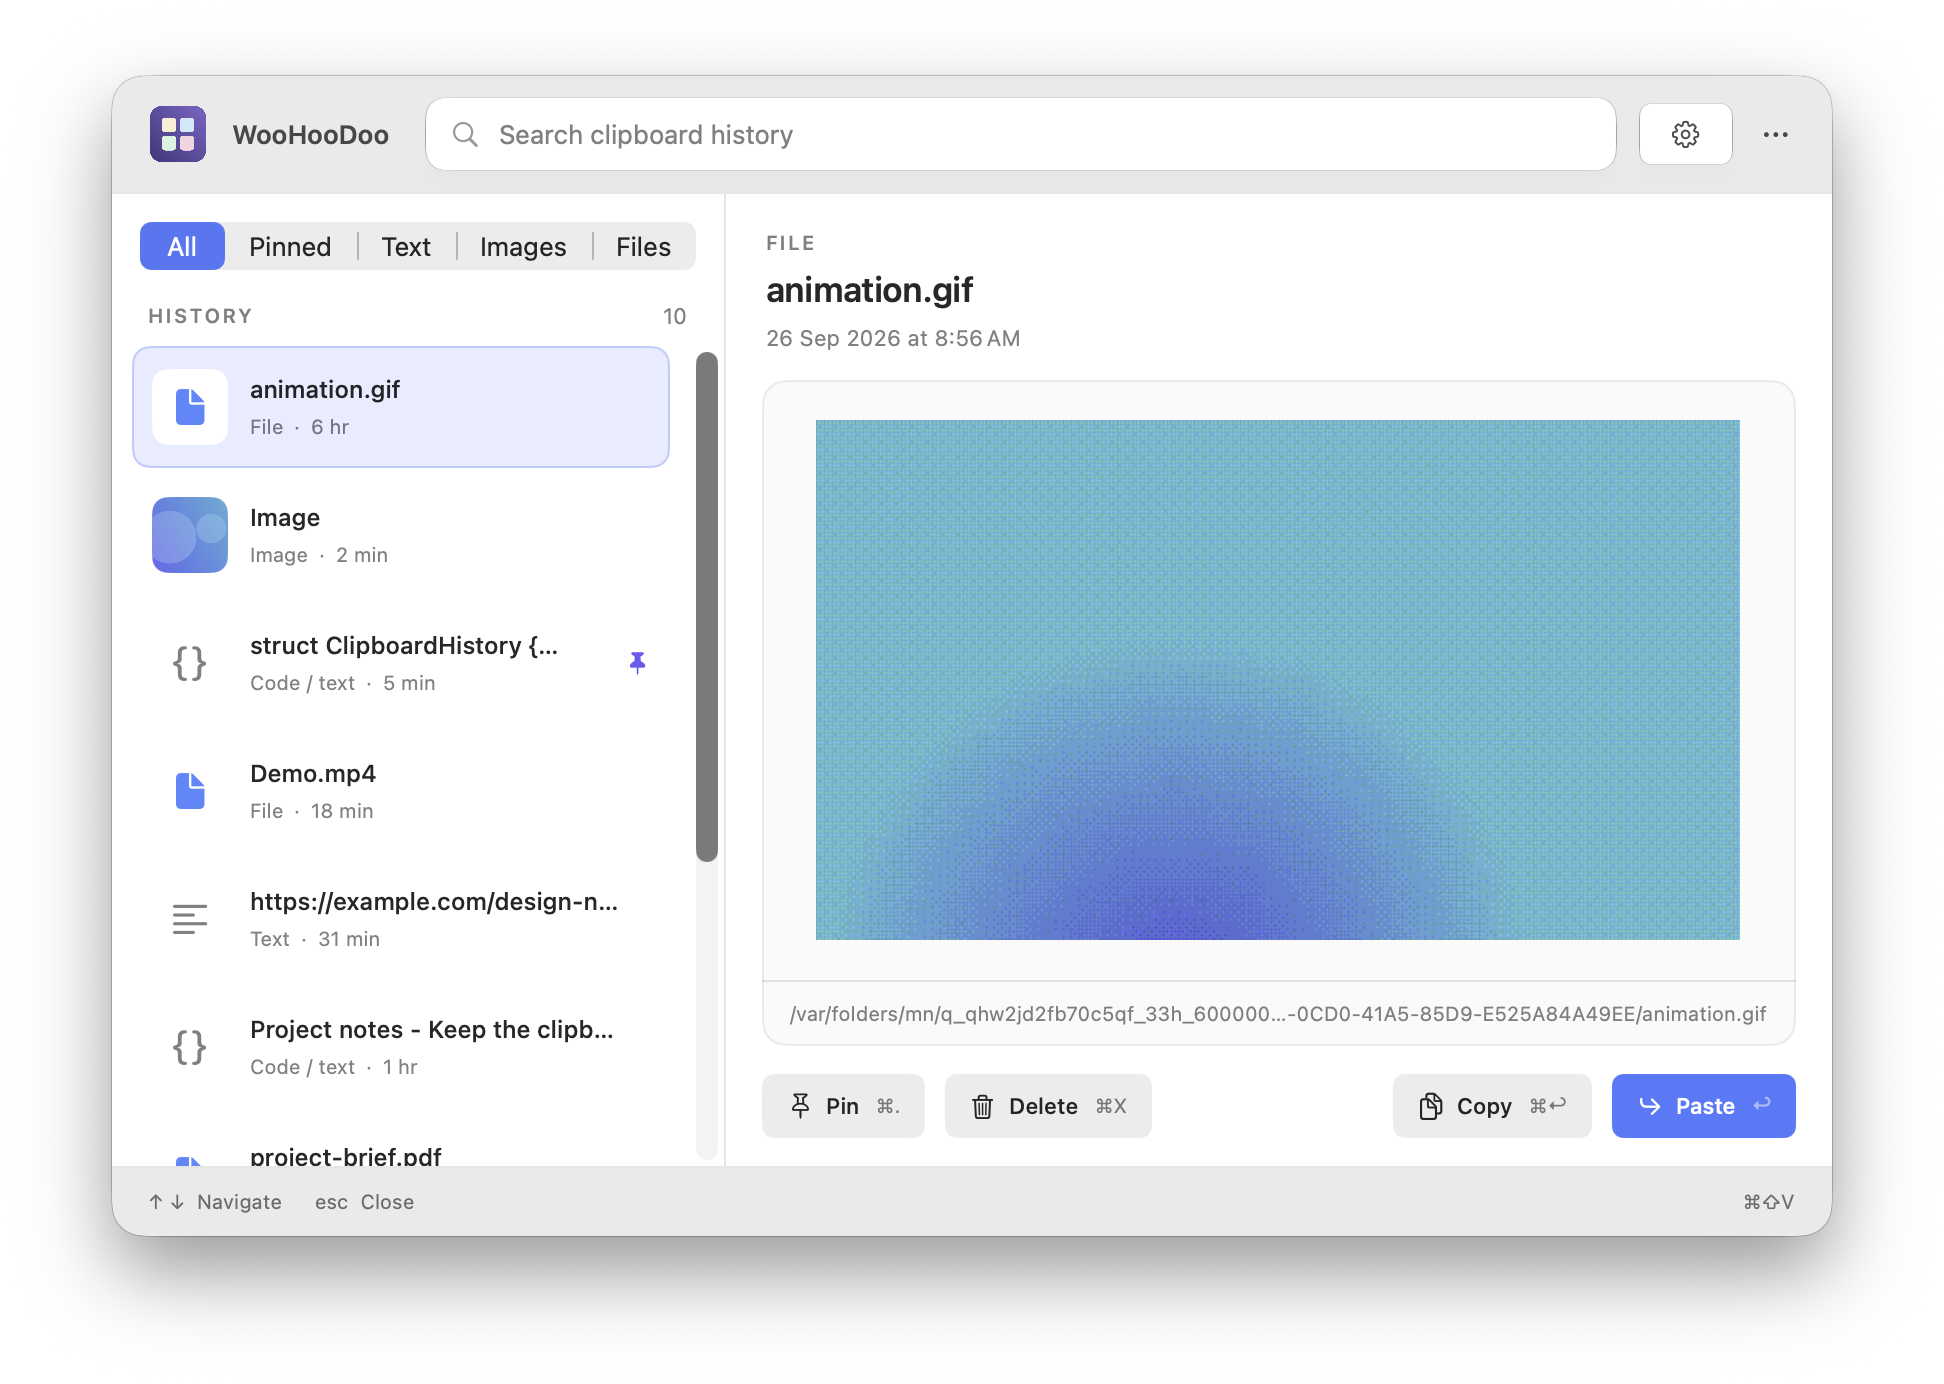
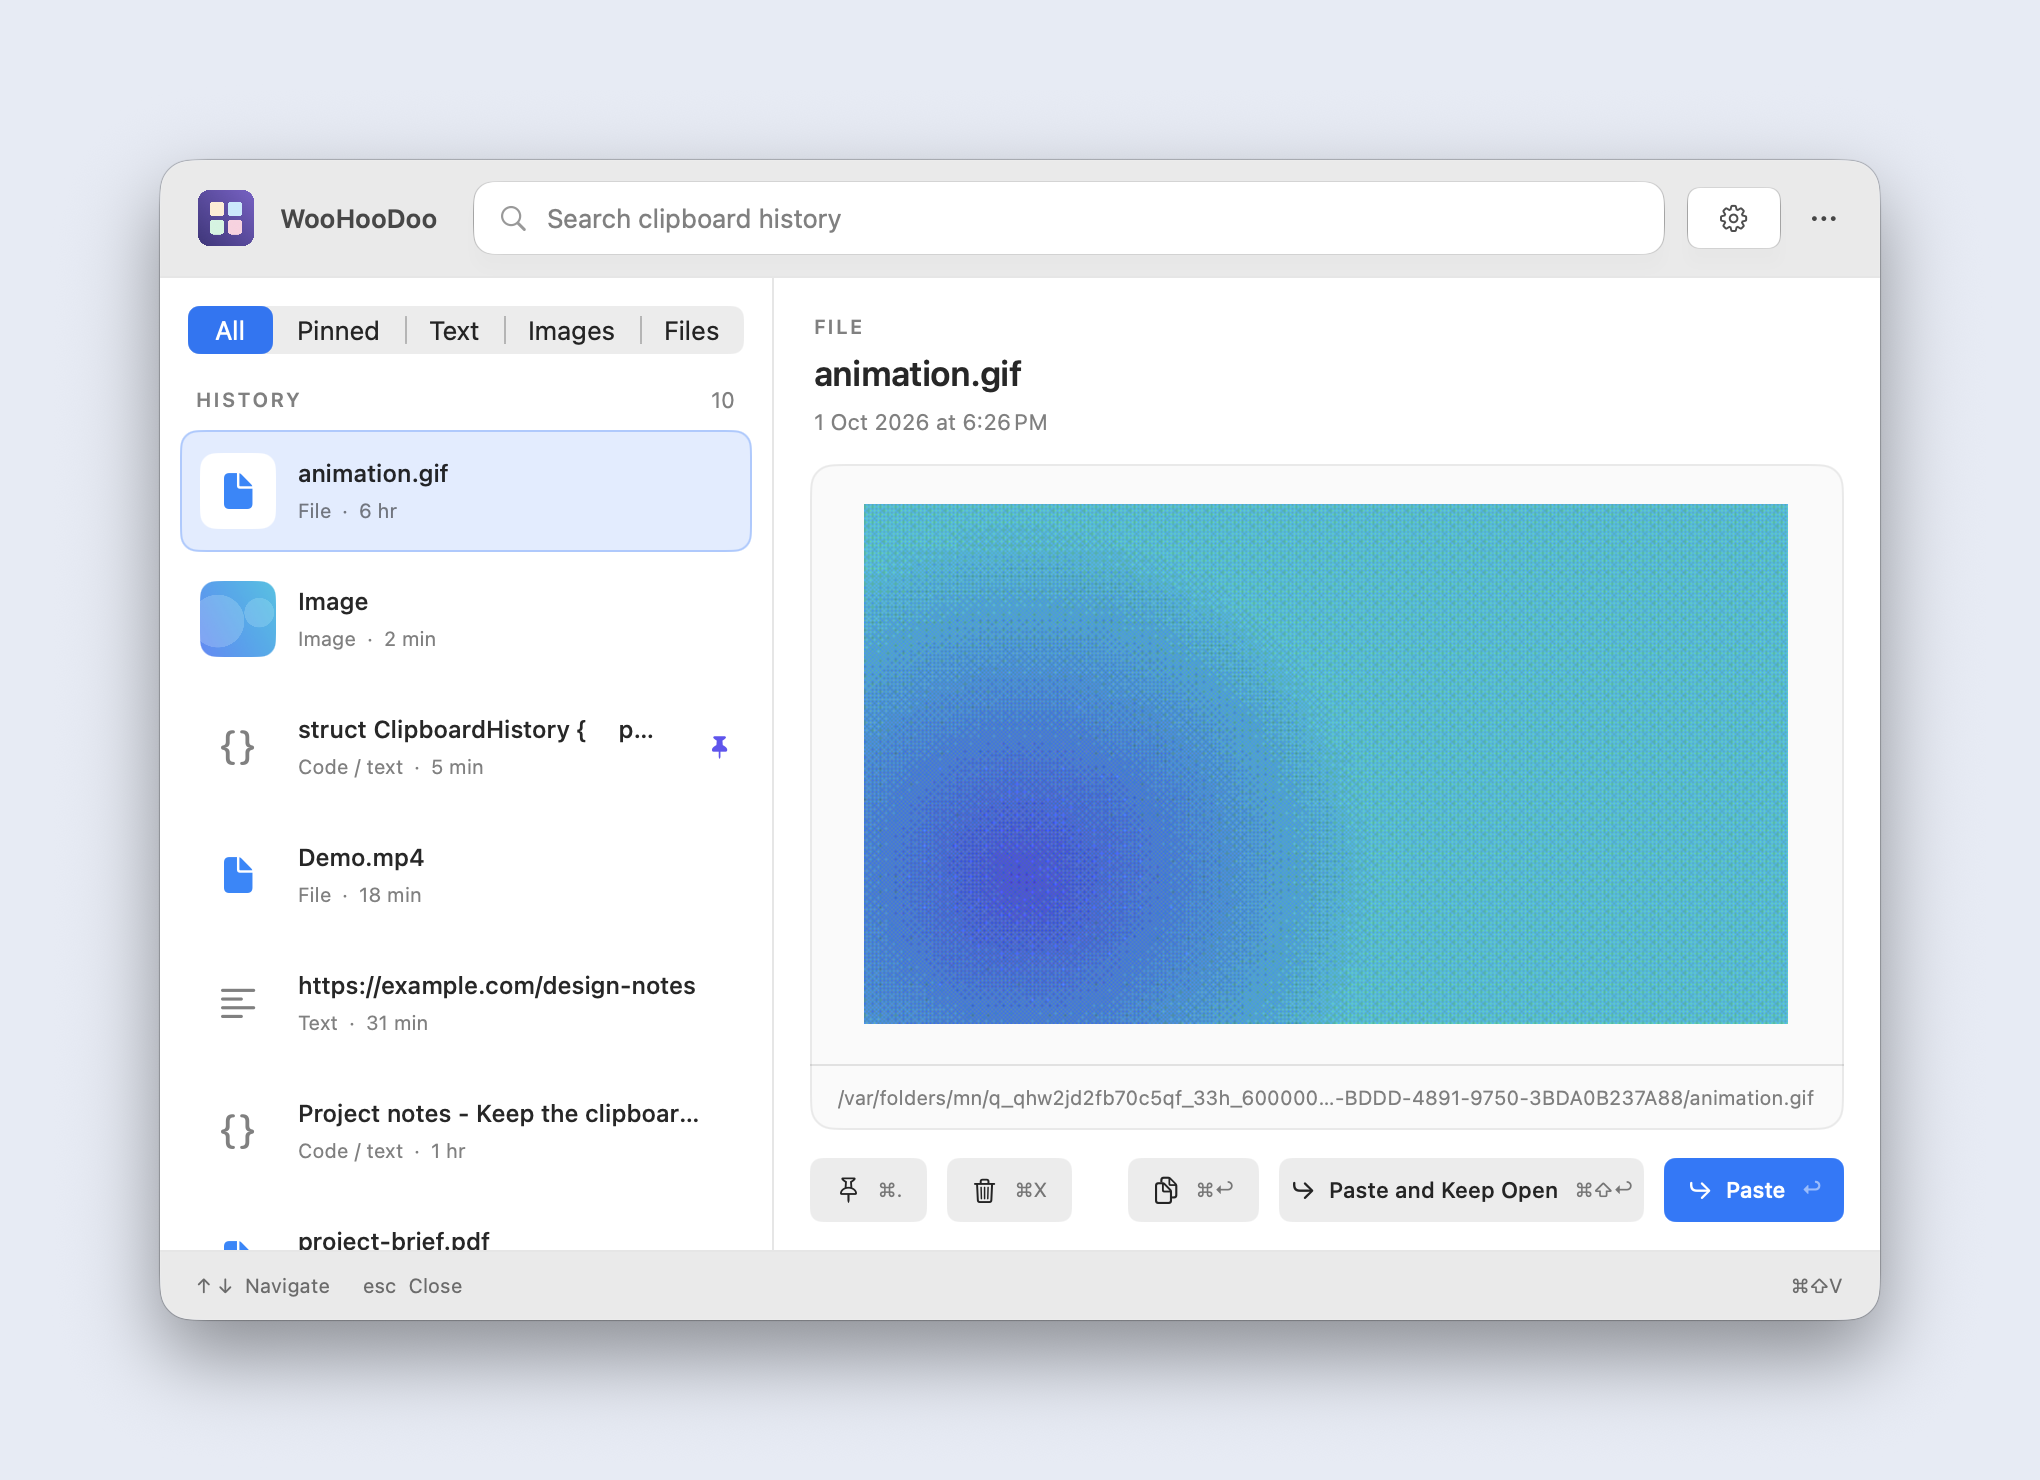
feat: add paste and keep open controls

diff --git a/Sources/WooHooDoo/AppController.swift b/Sources/WooHooDoo/AppController.swift
@@ -37,6 +37,7 @@ final class AppController: NSObject, ObservableObject, NSApplicationDelegate, NS
     private var hotKeyRef: EventHotKeyRef?
     private var hotKeyHandler: EventHandlerRef?
     private var previousApp: NSRunningApplication?
+    private var isPastingKeepingOpen = false
 
     var filteredClips: [Clip] {
         store.clips.filter { clip in
@@ -95,6 +96,11 @@ final class AppController: NSObject, ObservableObject, NSApplicationDelegate, NS
             let modifiers = event.modifierFlags.intersection(.deviceIndependentFlagsMask)
             let hasCommand = modifiers.contains(.command)
             let hasOtherModifiers = !modifiers.intersection([.shift, .option, .control]).isEmpty
+            if !self.showSettings, event.keyCode == 36,
+               modifiers.intersection([.command, .shift, .option, .control]) == [.command, .shift] {
+                if !event.isARepeat { self.pasteSelected(keepingOpen: true) }
+                return nil
+            }
             if !self.showSettings, hasCommand, !hasOtherModifiers {
                 switch event.keyCode {
                 case UInt16(kVK_ANSI_Period):
@@ -152,7 +158,7 @@ final class AppController: NSObject, ObservableObject, NSApplicationDelegate, NS
     }
 
     func windowDidResignKey(_ notification: Notification) {
-        hide()
+        if !isPastingKeepingOpen { hide() }
     }
 
     func windowDidResize(_ notification: Notification) {
@@ -174,9 +180,9 @@ final class AppController: NSObject, ObservableObject, NSApplicationDelegate, NS
         selectedIndex = min(max(selectedIndex + offset, 0), count - 1)
     }
 
-    func pasteSelected() {
+    func pasteSelected(keepingOpen: Bool = false) {
         guard let selectedClip else { return }
-        paste(selectedClip)
+        paste(selectedClip, keepingOpen: keepingOpen)
     }
 
     func copySelected() {
@@ -234,17 +240,27 @@ final class AppController: NSObject, ObservableObject, NSApplicationDelegate, NS
         launchAtLoginEnabled = SMAppService.mainApp.status == .enabled
     }
 
-    func paste(_ clip: Clip) {
+    func paste(_ clip: Clip, keepingOpen: Bool = false) {
+        guard !isPastingKeepingOpen else { return }
         guard store.copy(clip) else { return }
-        hide()
+        if keepingOpen { select(clip) } else { hide() }
         guard let previousApp, previousApp.bundleIdentifier != Bundle.main.bundleIdentifier else { return }
-        previousApp.activate(options: [])
+        if !keepingOpen { previousApp.activate(options: []) }
         guard AXIsProcessTrusted() else {
             let options = [kAXTrustedCheckOptionPrompt.takeUnretainedValue() as String: true] as CFDictionary
             _ = AXIsProcessTrustedWithOptions(options)
             return
         }
+        isPastingKeepingOpen = keepingOpen
+        let hidesOnDeactivate = panel?.hidesOnDeactivate ?? true
+        if keepingOpen { panel?.hidesOnDeactivate = false }
+        if keepingOpen { previousApp.activate(options: []) }
         DispatchQueue.main.asyncAfter(deadline: .now() + 0.15) {
+            guard NSWorkspace.shared.frontmostApplication?.processIdentifier == previousApp.processIdentifier else {
+                self.isPastingKeepingOpen = false
+                self.panel?.hidesOnDeactivate = hidesOnDeactivate
+                return
+            }
             let source = CGEventSource(stateID: .hidSystemState)
             let down = CGEvent(keyboardEventSource: source, virtualKey: 9, keyDown: true)
             let up = CGEvent(keyboardEventSource: source, virtualKey: 9, keyDown: false)
@@ -252,6 +268,17 @@ final class AppController: NSObject, ObservableObject, NSApplicationDelegate, NS
             up?.flags = .maskCommand
             down?.post(tap: .cghidEventTap)
             up?.post(tap: .cghidEventTap)
+            if keepingOpen {
+                DispatchQueue.main.asyncAfter(deadline: .now() + 0.15) {
+                    if self.panel?.isVisible == true,
+                       NSWorkspace.shared.frontmostApplication?.processIdentifier == previousApp.processIdentifier {
+                        NSApp.activate(ignoringOtherApps: true)
+                        self.panel?.makeKeyAndOrderFront(nil)
+                    }
+                    self.isPastingKeepingOpen = false
+                    self.panel?.hidesOnDeactivate = hidesOnDeactivate
+                }
+            }
         }
     }
 

diff --git a/scripts/render-layout.swift b/scripts/render-layout.swift
@@ -79,6 +79,17 @@ struct LayoutCheck {
         let app = NSApplication.shared
         app.applicationIconImage = NSImage(contentsOfFile: "dist/WooHooDoo.app/Contents/Resources/AppIcon.icns")
         app.setActivationPolicy(.regular)
+        let backdrop = NSWindow(contentRect: NSRect(origin: .zero,
+                                                   size: NSSize(width: AppController.panelSize.width + 160,
+                                                                height: AppController.panelSize.height + 160)),
+                                styleMask: [.borderless], backing: .buffered, defer: false)
+        backdrop.backgroundColor = scenario == "dark"
+            ? NSColor(calibratedRed: 0.12, green: 0.14, blue: 0.20, alpha: 1)
+            : NSColor(calibratedRed: 0.88, green: 0.90, blue: 0.95, alpha: 1)
+        backdrop.hasShadow = false
+        backdrop.level = .floating
+        backdrop.center()
+        backdrop.orderFront(nil)
         let window = NSPanel(contentRect: NSRect(origin: .zero, size: AppController.panelSize),
                              styleMask: [.titled, .fullSizeContentView], backing: .buffered, defer: false)
         window.appearance = NSAppearance(named: scenario == "dark" ? .darkAqua : .aqua)
@@ -88,13 +99,14 @@ struct LayoutCheck {
         window.standardWindowButton(.miniaturizeButton)?.isHidden = true
         window.standardWindowButton(.zoomButton)?.isHidden = true
         window.isFloatingPanel = true
-        window.level = .floating
+        window.level = NSWindow.Level(rawValue: NSWindow.Level.floating.rawValue + 1)
         window.hasShadow = true
         window.contentView = NSHostingView(rootView: HistoryView(controller: controller))
         window.minSize = AppController.panelSize
         window.maxSize = AppController.panelSize
         window.setFrame(NSRect(origin: .zero, size: AppController.panelSize), display: false)
-        window.center()
+        window.setFrameOrigin(NSPoint(x: backdrop.frame.midX - window.frame.width / 2,
+                                      y: backdrop.frame.midY - window.frame.height / 2))
         window.makeKeyAndOrderFront(nil)
         app.activate(ignoringOtherApps: true)
 
@@ -106,17 +118,22 @@ struct LayoutCheck {
             }
         }
 
-        DispatchQueue.main.asyncAfter(deadline: .now() + 1.25) {
+        DispatchQueue.main.asyncAfter(deadline: .now() + 2) {
             precondition(abs(window.frame.width - AppController.panelSize.width) < 1 &&
                          abs(window.frame.height - AppController.panelSize.height) < 1,
                          "Panel changed size while rendering \(scenario): \(window.frame)")
-            FileHandle.standardOutput.write(Data("Sample window ID: \(window.windowNumber)\n".utf8))
+            precondition(backdrop.screen?.visibleFrame.contains(backdrop.frame) == true,
+                         "Sample backdrop does not fit on screen")
+            let frame = backdrop.frame
+            let screenTop = NSScreen.screens[0].frame.maxY
+            let region = "\(Int(frame.minX)),\(Int(screenTop - frame.maxY)),\(Int(frame.width)),\(Int(frame.height))"
+            FileHandle.standardOutput.write(Data("Sample capture region: \(region)\n".utf8))
         }
         signal(SIGTERM, SIG_IGN)
         let terminate = DispatchSource.makeSignalSource(signal: SIGTERM, queue: .main)
         terminate.setEventHandler { app.terminate(nil) }
         terminate.resume()
-        withExtendedLifetime((controller, window, terminate)) { app.run() }
+        withExtendedLifetime((controller, window, backdrop, terminate)) { app.run() }
     }
 
     private static func playerView(in view: NSView) -> AVPlayerView? {

diff --git a/Sources/WooHooDoo/Clipboard/PreviewPane.swift b/Sources/WooHooDoo/Clipboard/PreviewPane.swift
@@ -148,37 +148,51 @@ struct PreviewPane: View {
             Button {
                 controller.togglePin(clip)
             } label: {
-                actionLabel(clip.isPinned ? "Unpin" : "Pin",
+                actionLabel(nil,
                             symbol: clip.isPinned ? "pin.slash" : "pin", shortcut: "⌘.")
             }
             .buttonStyle(.bordered)
+            .accessibilityLabel(clip.isPinned ? "Unpin" : "Pin")
+            .help(clip.isPinned ? "Unpin (Command-Period)" : "Pin (Command-Period)")
             Button(role: .destructive) {
                 controller.delete(clip)
             } label: {
-                actionLabel("Delete", symbol: "trash", shortcut: "⌘X")
+                actionLabel(nil, symbol: "trash", shortcut: "⌘X")
             }
             .buttonStyle(.bordered)
+            .accessibilityLabel("Delete")
+            .help("Delete (Command-X)")
             Spacer()
             Button { controller.copy(clip) } label: {
-                actionLabel("Copy", symbol: "doc.on.doc", shortcut: "⌘↩")
+                actionLabel(nil, symbol: "doc.on.doc", shortcut: "⌘↩")
             }
                 .buttonStyle(.bordered)
                 .disabled(!store.canRestore(clip))
+                .accessibilityLabel("Copy")
+                .help("Copy (Command-Return)")
+            Button { controller.paste(clip, keepingOpen: true) } label: {
+                actionLabel("Paste and Keep Open", symbol: "arrow.turn.down.right", shortcut: "⌘⇧↩")
+            }
+                .buttonStyle(.bordered)
+                .disabled(!store.canRestore(clip))
+                .accessibilityLabel("Paste and keep the window open")
+                .help("Paste and keep the window open (Command-Shift-Return)")
             Button { controller.paste(clip) } label: {
                 actionLabel("Paste", symbol: "arrow.turn.down.right", shortcut: "↩")
             }
                 .buttonStyle(.borderedProminent)
                 .disabled(!store.canRestore(clip))
+                .help("Paste (Return). Press Command-Shift-Return to paste and keep the window open.")
         }
         .padding(.horizontal, 18)
         .frame(height: 60)
     }
 
-    private func actionLabel(_ title: String, symbol: String, shortcut: String) -> some View {
+    private func actionLabel(_ title: String?, symbol: String, shortcut: String) -> some View {
         HStack(spacing: 6) {
             Image(systemName: symbol)
                 .frame(width: 14)
-            Text(title)
+            if let title { Text(title) }
             Text(shortcut)
                 .font(.system(size: 10))
                 .foregroundStyle(.secondary)
@@ -186,6 +200,7 @@ struct PreviewPane: View {
         }
         .font(.system(size: 11, weight: .medium))
         .frame(height: 24)
+        .fixedSize(horizontal: true, vertical: false)
     }
 
     private func unavailable(_ title: String) -> some View {

diff --git a/README.md b/README.md
@@ -53,12 +53,15 @@ Press `Command-Shift-V` or click the WooHooDoo menu bar icon. Search, use the fi
 | `Command-Shift-V` | Open or close WooHooDoo |
 | `Up` / `Down` | Move through results |
 | `Return` | Paste the selected clip |
+| `Command-Shift-Return` | Paste the selected clip and keep the window open |
 | `Command-Return` | Copy the selected clip |
 | `Command-.` | Pin or unpin the selected clip |
 | `Command-X` | Delete the selected clip |
 | `Escape` | Close the panel or settings |
 
 Double-clicking a result also pastes it. Automatic paste needs macOS Accessibility access. Without it, WooHooDoo puts the clip on the clipboard and asks for access; you can paste manually.
+
+Click **Paste and Keep Open** or press `Command-Shift-Return` to paste several clips into the same app. The window stays open and regains keyboard focus after each paste. Your search and filter stay in place. Pin, Delete, and Copy show their icons and shortcuts; hover over them for their names.
 
 GIF files play automatically in the preview. Copied GIF images also play when the source app puts the original GIF data on the clipboard. If it only supplies a still image, WooHooDoo cannot recover the animation.
 

diff --git a/docs/ARCHITECTURE.md b/docs/ARCHITECTURE.md
@@ -12,6 +12,8 @@
 
 The selected clip is written back to the system pasteboard before the previous app is activated. Copying a saved clip moves it to the top of history and refreshes its retention date. A synthetic `Command-V` needs Accessibility permission. When permission is unavailable, the clip remains on the pasteboard for manual paste.
 
+The **Paste and Keep Open** button and `Command-Shift-Return` keep the panel visible while the previous app receives the paste, then return keyboard focus to the panel. The search and filter stay in place, and the pasted clip stays selected after moving to the top of history. Pin, Delete, and Copy use compact icon and shortcut controls with tooltips and accessibility labels.
+
 ## Storage and retention
 
 `~/Library/Application Support/WooHooDoo/history.json` stores clip metadata, text, pause state, and retention settings. Copied images are separate files in the same folder. Finder files are stored as paths and are not duplicated. Removing an image clip removes its image file.

diff --git a/CONTRIBUTING.md b/CONTRIBUTING.md
@@ -14,3 +14,5 @@ For UI changes, build the app first so the renderer can load its icon, then rend
 The layout script captures the sample window through macOS `screencapture`. macOS may require Screen Recording access for the terminal running it. It renders history, settings, dark appearance, video playback, GIF preview, and search to `.build/layout-*.png`. When the public interface changes, copy the affected captures to `docs/screenshots/`. The video and GIF captures use the generated sample files in `docs/fixtures/`.
 
 Use sample clips in screenshots and bug reports. Clipboard history can contain private text, images, and file paths.
+
+The renderer places each sample window on a plain background. The capture includes an 80-point margin around the window and its native shadow. Keep this framing when updating public screenshots.
